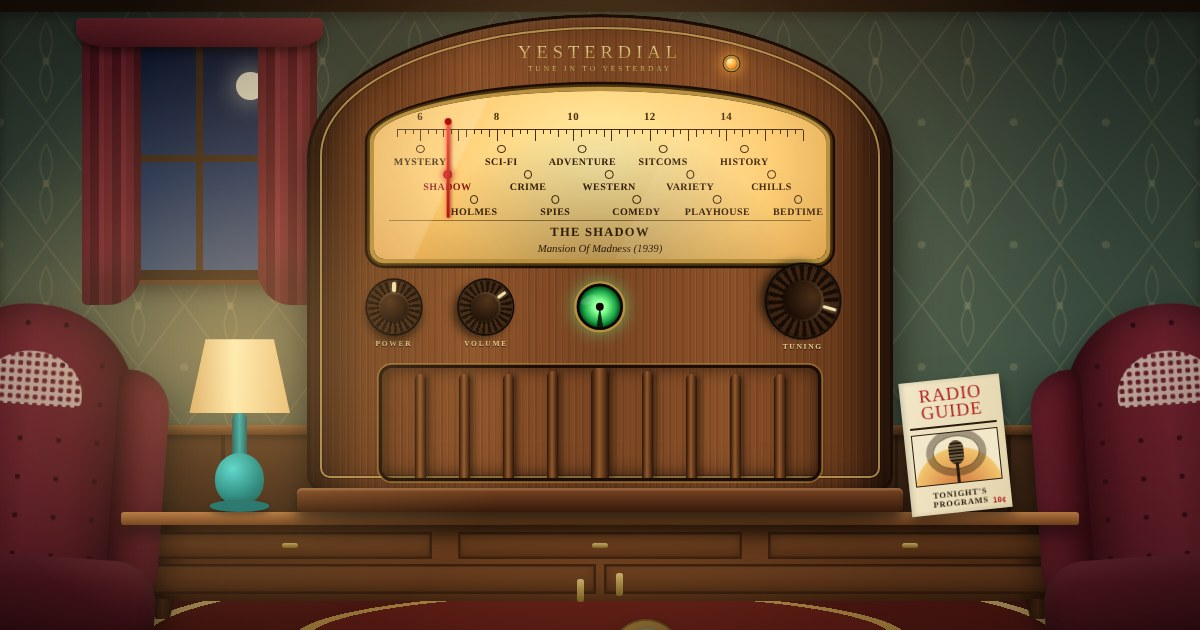
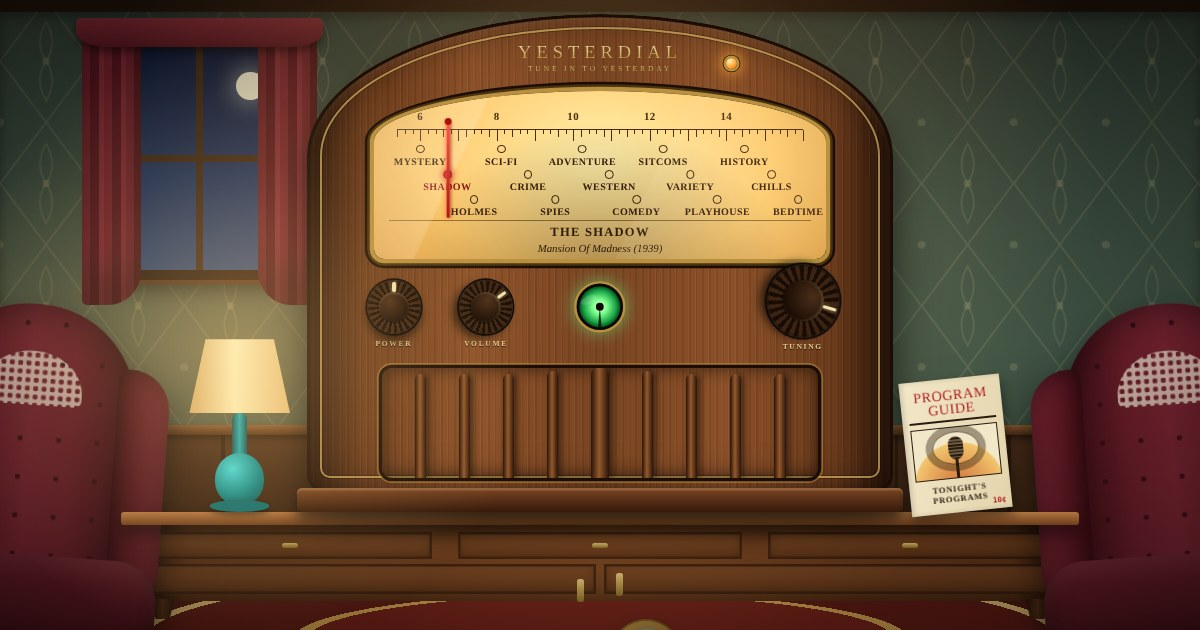
Rename "Radio Guide" to "Program Guide"; add hover tips on the dial's station names
The magazine cover, guide heading, labels, tour and README now say Program Guide (and the
share image is regenerated). Hovering, keyboard-focusing or tapping a station name on the
dial shows a tip with the station's full name, dial position, a description and what is on
the air there right now (plus any active special). Works with mouse, keyboard and touch.

Claude-Session: https://claude.ai/code/session_01VnWCEm31j28C3BVUtz2JX6

Changed region(s): [[0.74, 0.6032, 0.8325, 0.8143]]

diff --git a/docs/app.js b/docs/app.js
@@ -165,6 +165,47 @@ addEventListener('resize', layout);
 addEventListener('load', layout);
 layout();
 
+// ---------------------------------------------------------------- hover tip for the dial's station names
+// Shows the station's full name, dial position, a description, and what is on the air there right now.
+// Mouse: hover. Keyboard: focus. Touch: a tap shows it for a few seconds while the tap tunes in.
+const dialTip = $('#dialTip');
+let tipTimer = 0, tipTick = 0, tipAuto = 0;
+function fillTip(i) {
+  const ch = state.channels[i], np = nowPlaying(i);
+  const name = el('b', null, ch.name);
+  const kc = el('span', 'kc', `${ch.kc} kc · “${ch.short}” on the dial`);
+  const blurb = el('span', 'blurb', ch.blurb);
+  const now = el('span', 'now'); now.append(el('em', null, 'On the air now'), document.createTextNode(`${np.ep.s}: ${epLine(np.ep)}`));
+  const parts = [name, kc, blurb, now];
+  if (np.special) parts.push(el('span', 'special', `★ ${np.special.title}`));
+  parts.push(el('span', 'go', state.on && state.tuned === i ? '◉ You are tuned in' : 'Click to tune in'));
+  dialTip.replaceChildren(...parts);
+}
+function placeTip(btn) {
+  const r = btn.getBoundingClientRect(), w = dialTip.offsetWidth, h = dialTip.offsetHeight, m = 8;
+  const left = clamp((r.left + r.right) / 2 - w / 2, m, innerWidth - w - m);
+  const below = r.bottom + 10, above = r.top - h - 10;
+  dialTip.style.left = left + 'px';
+  dialTip.style.top = (below + h <= innerHeight - m ? below : Math.max(m, above)) + 'px';
+}
+function showTip(btn, how) {
+  if (tourOpen()) return;
+  clearTimeout(tipTimer); clearTimeout(tipAuto);
+  tipTimer = setTimeout(() => {
+    const i = +btn.dataset.i;
+    fillTip(i); dialTip.hidden = false; placeTip(btn);
+    requestAnimationFrame(() => dialTip.classList.add('show'));
+    clearInterval(tipTick); tipTick = setInterval(() => { fillTip(i); placeTip(btn); }, 1000);   // keeps "on now" fresh
+    if (how === 'touch') tipAuto = setTimeout(hideTip, 3500);
+  }, how === 'touch' ? 0 : 150);
+}
+function hideTip() {
+  clearTimeout(tipTimer); clearInterval(tipTick); clearTimeout(tipAuto);
+  dialTip.classList.remove('show'); dialTip.hidden = true;
+}
+addEventListener('resize', hideTip);
+addEventListener('scroll', hideTip, true);
+
 // ---------------------------------------------------------------- dial construction
 const dialEl = $('#dial'), scaleEl = $('#dialScale'), needle = $('#needle');
 const stripA = $('#stripA'), stripB = $('#stripB');
@@ -190,7 +231,11 @@ function buildDial() {
     const b = el('button', 'st', ch.short);
     b.style.left = dialX(state.sp[i]) + 'rem';
     b.style.top = [64, 94, 124][i % 3] + 'rem';          // three staggered rows keep the names big and apart
-    b.setAttribute('aria-label', `Tune to ${ch.name}, ${ch.kc} kilocycles`);
+    b.setAttribute('aria-label', `Tune to ${ch.name}, ${ch.kc} kilocycles. ${ch.blurb}`);
+    b.addEventListener('pointerenter', (e) => showTip(b, e.pointerType));
+    b.addEventListener('pointerleave', (e) => { if (e.pointerType !== 'touch') hideTip(); });   // touch: let the timer hide it
+    b.addEventListener('focus', () => { if (b.matches(':focus-visible')) showTip(b, 'key'); });   // keyboard focus only; a tap also focuses
+    b.addEventListener('blur', hideTip);
     b.dataset.i = i;
     b.addEventListener('click', () => goTo(i));
     scaleEl.append(b);
@@ -593,7 +638,7 @@ $('#shareBtn').addEventListener('click', shareStation);
 $('#zoomBtn').addEventListener('click', () => setLean(!state.lean));
 $('#hStation').addEventListener('click', openGuide);                       // tap the station name for the full station list
 
-// ---------------------------------------------------------------- the Radio Guide
+// ---------------------------------------------------------------- the Program Guide
 const guideEl = $('#guide'), rowsEl = $('#guideRows');
 let guideTimer = 0, lastFocus = null;
 
@@ -698,8 +743,8 @@ guideEl.addEventListener('click', (e) => { if (e.target === guideEl) closeGuide(
 const TOUR = [
   { title: 'Welcome to Yesterdial', list: true, text: () => `Yesterdial is a 1940s radio with <b>${numberWord(state.channels.length).toLowerCase()} stations</b> of old-time radio on the air right now:`, after: 'Here is a 30-second tour of the radio.', next: 'Show me around', skip: 'Skip' },
   { target: ['#knobPower'], title: 'Switch it on', text: 'Click the <b>POWER</b> knob. The tubes need a moment to warm up. (Browsers stay silent until you click something, so the sound starts with this click.)' },
-  { target: ['#dial', '#knobTune'], title: 'Tune in', text: 'Click a <b>station name</b> on the dial, or drag the big <b>TUNING</b> knob (or scroll over the radio). When the red needle sits on a station and the green eye narrows, you are locked on. Between stations you will hear static. <kbd>←</kbd> <kbd>→</kbd> fine-tune; <kbd>↑</kbd> <kbd>↓</kbd> jump a station.' },
-  { target: ['#magazine'], title: 'Read the Radio Guide', text: 'Click the <b>magazine</b> to see what is on <b>now, next and later</b> on every station, plus special broadcasts like Sunday Night Suspense, Friday the 13th and Christmas week.' },
+  { target: ['#dial', '#knobTune'], title: 'Tune in', text: 'Click a <b>station name</b> on the dial, or drag the big <b>TUNING</b> knob (or scroll over the radio). <b>Hover over a station name</b> for a description and what is on now. When the red needle sits on a station and the green eye narrows, you are locked on. Between stations you will hear static. <kbd>←</kbd> <kbd>→</kbd> fine-tune; <kbd>↑</kbd> <kbd>↓</kbd> jump a station.' },
+  { target: ['#magazine'], title: 'Read the Program Guide', text: 'Click the <b>magazine</b> to see what is on <b>now, next and later</b> on every station, plus special broadcasts like Sunday Night Suspense, Friday the 13th and Christmas week.' },
   { target: ['#hud'], title: 'A few more things', text: 'Use ◀ ▶ to change station, 🌙 for a <b>sleep timer</b>, 🔗 to <b>share</b> a station, and 🔍 to <b>lean in</b> for a closer look at the dial. Tap the station name for the full list. The room redecorates itself with the seasons.' },
   { title: 'That’s all there is to it', text: 'Every station follows the clock, so everyone listening hears the same show at the same moment, just like real radio. The help button <b>❓</b> brings this tour back any time.', next: 'Switch on the radio', back: 'Back', skip: 'Just look around', last: true },
 ];
@@ -758,6 +803,7 @@ function positionTour() {
 }
 
 function openTour(from = 0) {
+  hideTip();
   tourFocus = document.activeElement; tourStep = from;
   if (!$('#guide').hidden) closeGuide();
   tourEl.hidden = false;

diff --git a/docs/style.css b/docs/style.css
@@ -217,7 +217,7 @@ body.on.playing .grille .cloth { animation: hum 1.4s infinite linear; }
 .magazine { left: 372rem; bottom: 128rem; width: 120rem; height: 160rem; transform: rotate(-6deg); transform-origin: 50% 100%; z-index: 4; border: 0; padding: 8rem; cursor: pointer; text-align: center;
   background: linear-gradient(105deg, #f2e7c8, #e3d4ac); box-shadow: 0 10rem 16rem rgba(0, 0, 0, .55), inset 3rem 0 6rem rgba(0, 0, 0, .15); color: #2a1b10; transition: transform .25s, box-shadow .25s; }
 .magazine:hover, .magazine:focus-visible { transform: rotate(-3deg) translateY(-8rem); box-shadow: 0 18rem 22rem rgba(0, 0, 0, .6), 0 0 0 3rem rgba(255, 210, 120, .7); outline: none; }
-.magazine .mast { display: block; font: 22rem/0.95 'Limelight', serif; color: #b02121; letter-spacing: 1rem; border-bottom: 3rem double #2a1b10; padding-bottom: 5rem; }
+.magazine .mast { display: block; font: 17rem/1 'Limelight', serif; color: #b02121; letter-spacing: .6rem; border-bottom: 3rem double #2a1b10; padding-bottom: 5rem; }
 .magazine .art { position: relative; display: block; height: 62rem; margin-top: 6rem; background: radial-gradient(circle at 50% 120%, #d0703a, #f2c46d 60%, #f2e7c8 62%); border: 2rem solid #2a1b10; overflow: hidden; }
 .magazine .mic { position: absolute; left: 50%; top: 10rem; width: 18rem; height: 28rem; margin-left: -9rem; border-radius: 9rem; background: repeating-linear-gradient(0deg, #2a1b10 0 2rem, #6a5a40 2rem 4rem); }
 .magazine .mic::after { content: ""; position: absolute; left: 50%; top: 26rem; width: 3rem; height: 24rem; margin-left: -1.5rem; background: #2a1b10; }
@@ -255,7 +255,7 @@ body.hint-guide .mag-hint { opacity: .95; }
 .toast { position: fixed; left: 50%; bottom: calc(var(--hudh, 60px) + 26px); transform: translate(-50%, 10px); z-index: 30; max-width: min(92vw, 520px); padding: 9px 16px; border-radius: 10px; background: rgba(20, 12, 7, .94); border: 1px solid rgba(201, 164, 92, .6); color: #f4e7c3; font: 14px 'Old Standard TT', serif; opacity: 0; pointer-events: none; transition: opacity .25s, transform .25s; text-align: center; }
 .toast.show { opacity: 1; transform: translate(-50%, 0); }
 
-/* ---------- the Radio Guide ---------- */
+/* ---------- the Program Guide ---------- */
 .guide-back { position: fixed; inset: 0; z-index: 50; display: flex; align-items: center; justify-content: center; padding: 16px; background: rgba(10, 5, 2, .74); backdrop-filter: blur(3px); overflow: auto; }
 .guide-back[hidden] { display: none; }
 .paper { position: relative; width: min(1000px, 100%); max-height: 100%; overflow: auto; padding: 22px 28px 20px; color: var(--ink);
@@ -308,6 +308,21 @@ body.hint-guide .mag-hint { opacity: .95; }
   .row .station em { display: none; }
   .row .slot.later { display: none; }
 }
+
+/* ---------- hover tip on the dial's station names ---------- */
+.dial-tip { position: fixed; z-index: 25; width: max-content; max-width: min(280px, 90vw); padding: 10px 13px 9px; pointer-events: none; color: var(--ink); border: 2px solid #3a2a1a; border-radius: 3px;
+  background: radial-gradient(ellipse at 20% 10%, rgba(255, 255, 255, .5), transparent 60%), #efe3c5; box-shadow: 0 10px 26px rgba(0, 0, 0, .6), inset 0 0 18px rgba(120, 80, 30, .2);
+  opacity: 0; transform: translateY(4px); transition: opacity .14s, transform .14s; }
+.dial-tip.show { opacity: 1; transform: none; }
+.dial-tip[hidden] { display: none; }
+.dial-tip b { display: block; font: 700 16px/1.2 'Old Standard TT', serif; }
+.dial-tip .kc { display: block; margin-top: 1px; font: 11px 'Special Elite', monospace; letter-spacing: .08em; color: #7a6040; text-transform: uppercase; }
+.dial-tip .blurb { display: block; margin-top: 5px; font: italic 14px/1.35 'Old Standard TT', serif; }
+.dial-tip .now { display: block; margin-top: 7px; padding-top: 6px; border-top: 1px dotted rgba(42, 27, 16, .5); font: 13.5px/1.3 'Old Standard TT', serif; }
+.dial-tip .now em { font-style: normal; font: 700 10.5px 'Special Elite', monospace; letter-spacing: .1em; text-transform: uppercase; color: var(--red); display: block; margin-bottom: 1px; }
+.dial-tip .special { display: block; margin-top: 3px; font: 700 11.5px 'Special Elite', monospace; color: var(--red); }
+.dial-tip .go { display: block; margin-top: 6px; font: 11px 'Special Elite', monospace; color: #7a6040; }
+@media (prefers-reduced-motion: reduce) { .dial-tip { transition: none; } }
 
 /* ---------- the first-visit tour ---------- */
 .tour { position: fixed; inset: 0; z-index: 60; }

diff --git a/docs/index.html b/docs/index.html
@@ -157,9 +157,9 @@
       <div class="base"></div>
     </div>
 
-    <!-- the Radio Guide magazine, leaning on the radio -->
-    <button class="magazine" id="magazine" aria-label="Open the Radio Guide: tonight's listings">
-      <span class="mast">RADIO<br>GUIDE</span>
+    <!-- the Program Guide magazine, leaning on the radio -->
+    <button class="magazine" id="magazine" aria-label="Open the Program Guide: tonight's listings">
+      <span class="mast">PROGRAM<br>GUIDE</span>
       <span class="art"><i class="mic"></i><i class="waves"></i></span>
       <span class="tag">TONIGHT'S<br>PROGRAMS</span>
       <span class="price">10¢</span>
@@ -190,17 +190,18 @@
   <button class="hbtn wide" id="shareBtn" title="Copy a link to this station">🔗 <span>Share</span></button>
   <label class="hvol"><span class="sr">Volume</span>🔈<input id="volRange" type="range" min="0" max="100" value="70"></label>
   <button class="hbtn wide" id="helpBtn" title="How to use Yesterdial (H)">❓ <span>Help</span></button>
-  <button class="hbtn wide" id="guideBtn">📖 <span>Guide</span></button>
+  <button class="hbtn wide" id="guideBtn" title="Open the Program Guide (G)">📖 <span>Guide</span></button>
 </div>
 <div class="toast" id="toast" role="status" aria-live="polite"></div>
+<div class="dial-tip" id="dialTip" role="tooltip" hidden></div>
 
-<!-- ===== the Radio Guide ===== -->
+<!-- ===== the Program Guide ===== -->
 <div class="guide-back" id="guide" hidden>
   <section class="paper" role="dialog" aria-modal="true" aria-labelledby="guideTitle">
     <button class="close" id="guideClose" aria-label="Close the guide">✕</button>
     <header>
       <p class="kicker">Your complete listing of tonight's programs</p>
-      <h2 id="guideTitle">RADIO GUIDE</h2>
+      <h2 id="guideTitle">PROGRAM GUIDE</h2>
       <p class="sub"><span id="guideClock"></span> &nbsp;·&nbsp; Tap a station to tune in</p>
     </header>
     <div class="specials" id="guideSpecials" hidden></div>

diff --git a/README.md b/README.md
@@ -9,11 +9,12 @@ straight from the [Internet Archive](https://archive.org/details/oldtimeradio). 
 
 ## Using it
 
-* **First visit**: a short guided tour highlights the real controls (Power, dial and tuning knob, Radio Guide, control bar) and ends with a "Switch on the radio" button. It is shown once per browser. The ❓ Help button (or `H`) replays it; add `?tour=1` to the address to force it or `?tour=0` to suppress it.
+* **First visit**: a short guided tour highlights the real controls (Power, dial and tuning knob, Program Guide, control bar) and ends with a "Switch on the radio" button. It is shown once per browser. The ❓ Help button (or `H`) replays it; add `?tour=1` to the address to force it or `?tour=0` to suppress it.
 * **Power knob**: switch on (the tubes take a moment to warm up). Browsers need a click before they will play sound.
 * **Tuning**: drag the big knob, scroll over the radio, press ← → (Shift for bigger steps), or click a station name on the dial.
+  Hover over (or keyboard-focus) a station name on the dial for a tip with its full name, a description, and what is on the air there right now.
   Between stations you hear static and a heterodyne whistle; the green "magic eye" narrows as you lock on.
-* **Radio Guide** (the magazine on the sideboard, or press `G`): *Special Broadcasts* coming up, plus what is on now / next / later on every station.
+* **Program Guide** (the magazine on the sideboard, or press `G`): *Special Broadcasts* coming up, plus what is on now / next / later on every station.
 * **Share** (🔗): copies a link such as `index.html#crime` that opens with the dial set to that station (the visitor
   still has to click Power, because browsers block autoplay). Station ids: `mystery shadow sherlock scifi crime spies adventure western comedy sitcom variety playhouse history chills bedtime`.
   The address bar updates as you tune, so you can also just copy it. Links only work for other people once the site is hosted.
